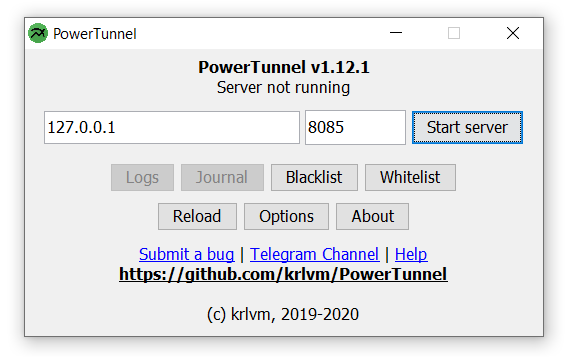
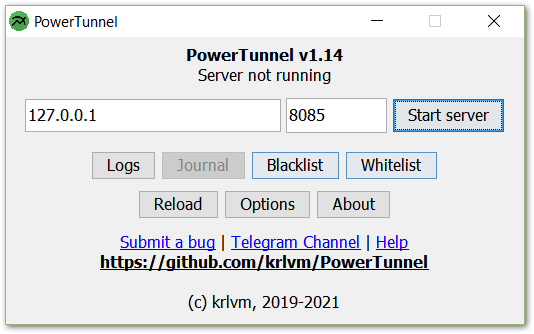
Update screenshots and readme

diff --git a/README.md b/README.md
@@ -1,5 +1,5 @@
 <div align="center">
-<img src="https://raw.githubusercontent.com/krlvm/PowerTunnel/master/images/logo.png" height="192px" width="192px" />
+<img src="https://raw.githubusercontent.com/krlvm/PowerTunnel/master/.github/images/logo.png" height="192px" width="192px" />
 <br><h1>PowerTunnel</h1><br>
 Simple, scalable, cross-platform and effective solution against government censorship
 <!-- That does not mean the battle is finished -->
@@ -14,7 +14,7 @@ Simple, scalable, cross-platform and effective solution against government censo
 <a href="https://github.com/krlvm/PowerTunnel/releases"><img src="https://img.shields.io/github/downloads/krlvm/PowerTunnel/total?style=flat-square" alt="Downloads"/></a>
 <a href="https://github.com/krlvm/PowerTunnel/wiki"><img src="https://img.shields.io/badge/help-wiki-yellow?style=flat-square" alt="Help on the Wiki"/></a>
 <br>
-<img src="https://raw.githubusercontent.com/krlvm/PowerTunnel/master/images/ui.png" alt="PowerTunnel User Interface" />
+<img src="https://raw.githubusercontent.com/krlvm/PowerTunnel/master/.github/images/ui.png" alt="PowerTunnel User Interface" />
 </div>
 
 ### What is it
@@ -57,7 +57,7 @@ DoH servers tested with PowerTunnel:
 You can test if you're using DoH [here](http://www.whatsmydnsserver.com/). If you have problems with DoH on PowerTunnel try disabling DNSSec mode.
 
 ### From User Interface
-![User Interface for configuring the program](https://raw.githubusercontent.com/krlvm/PowerTunnel/master/images/options.png "User Interface for configuring the program")
+![User Interface for configuring the program](https://raw.githubusercontent.com/krlvm/PowerTunnel/master/.github/images/options.png "User Interface for configuring the program")
 
 Hover over option to get more info
 ### Launch arguments
